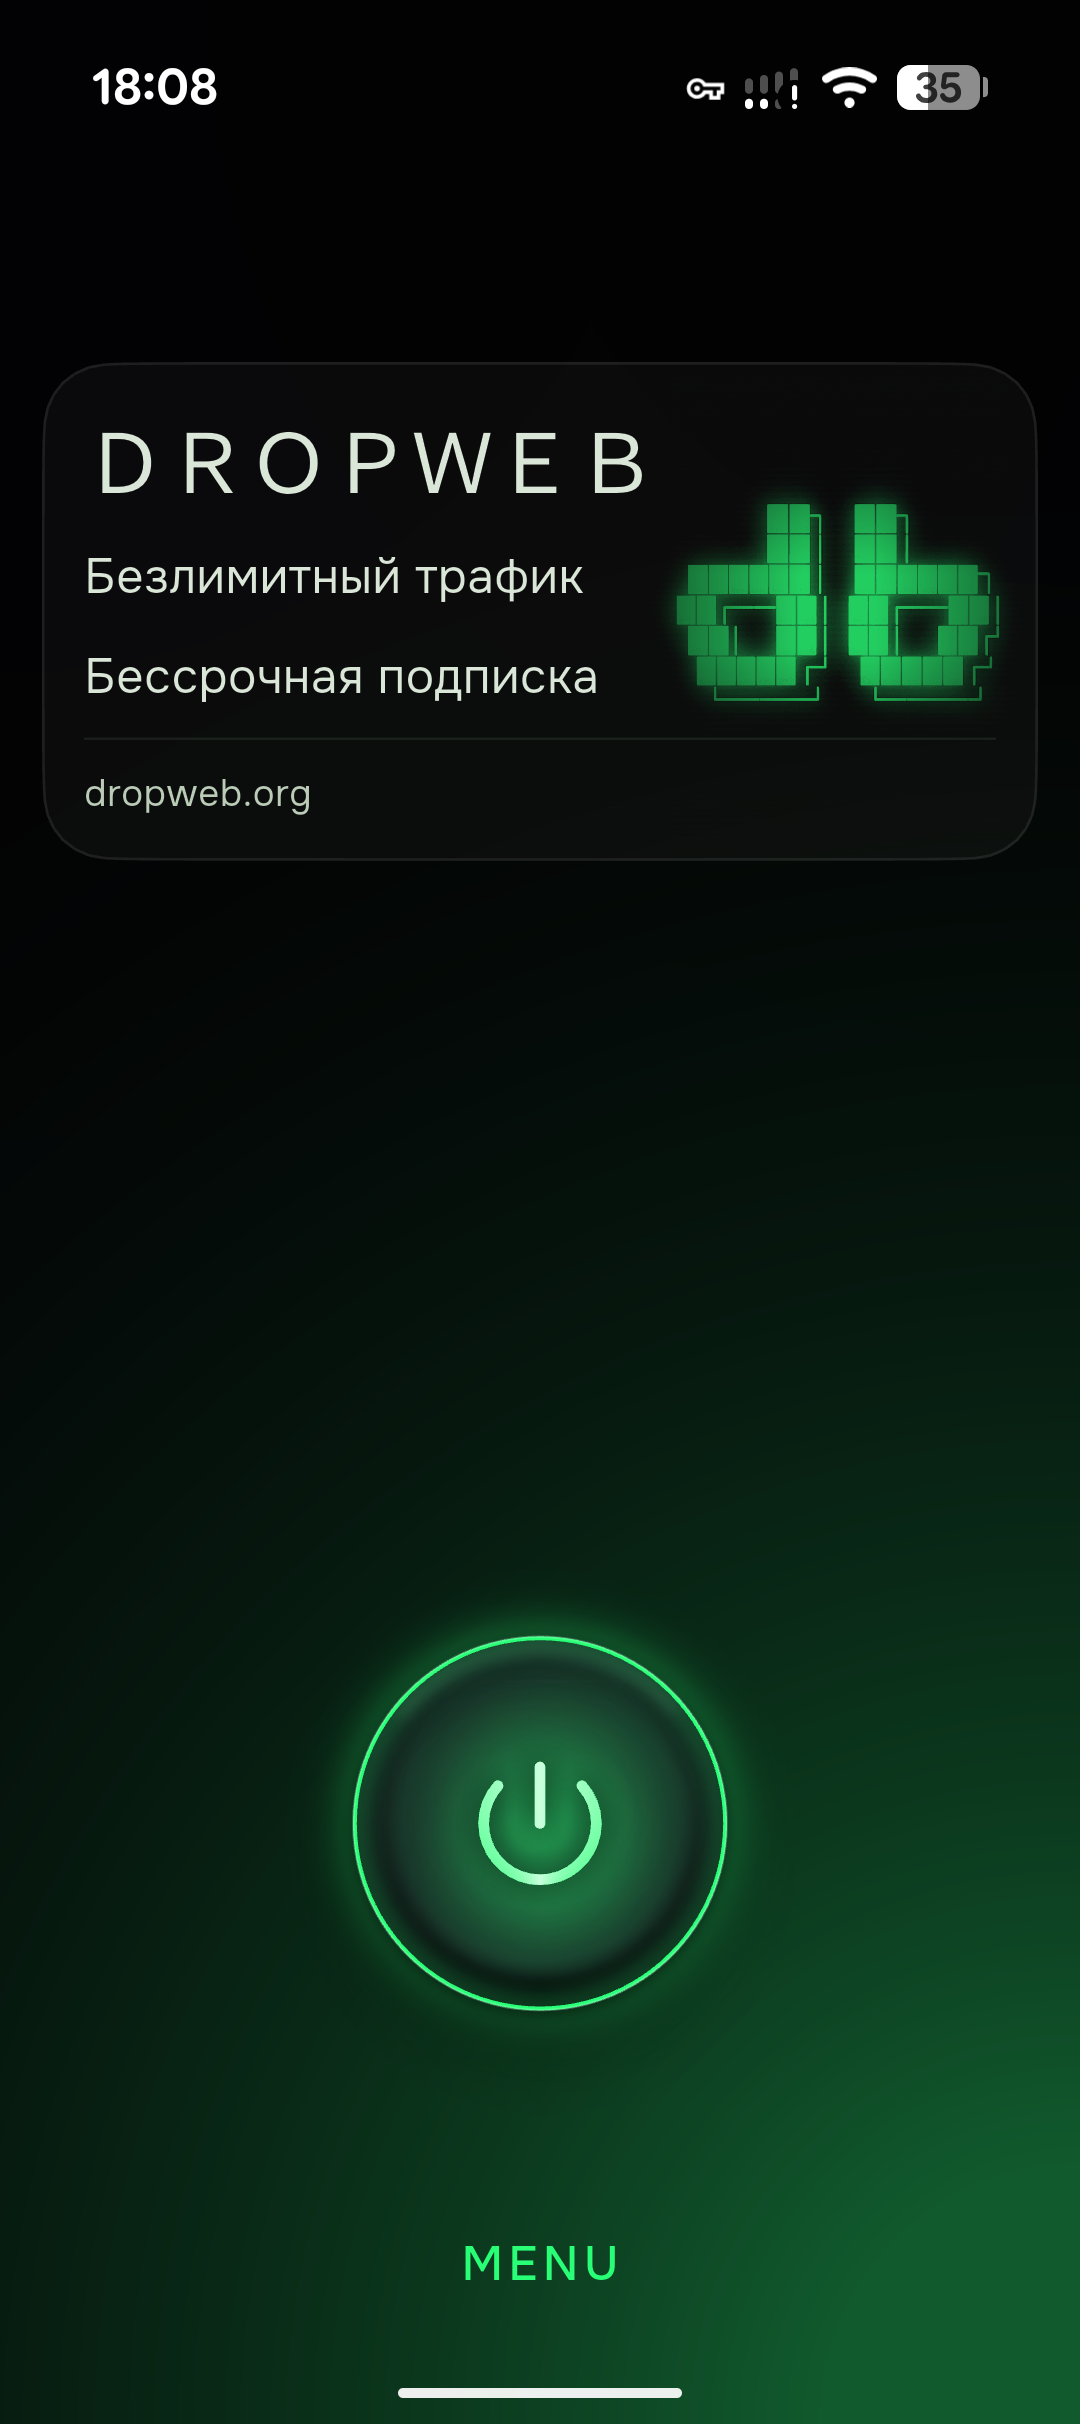
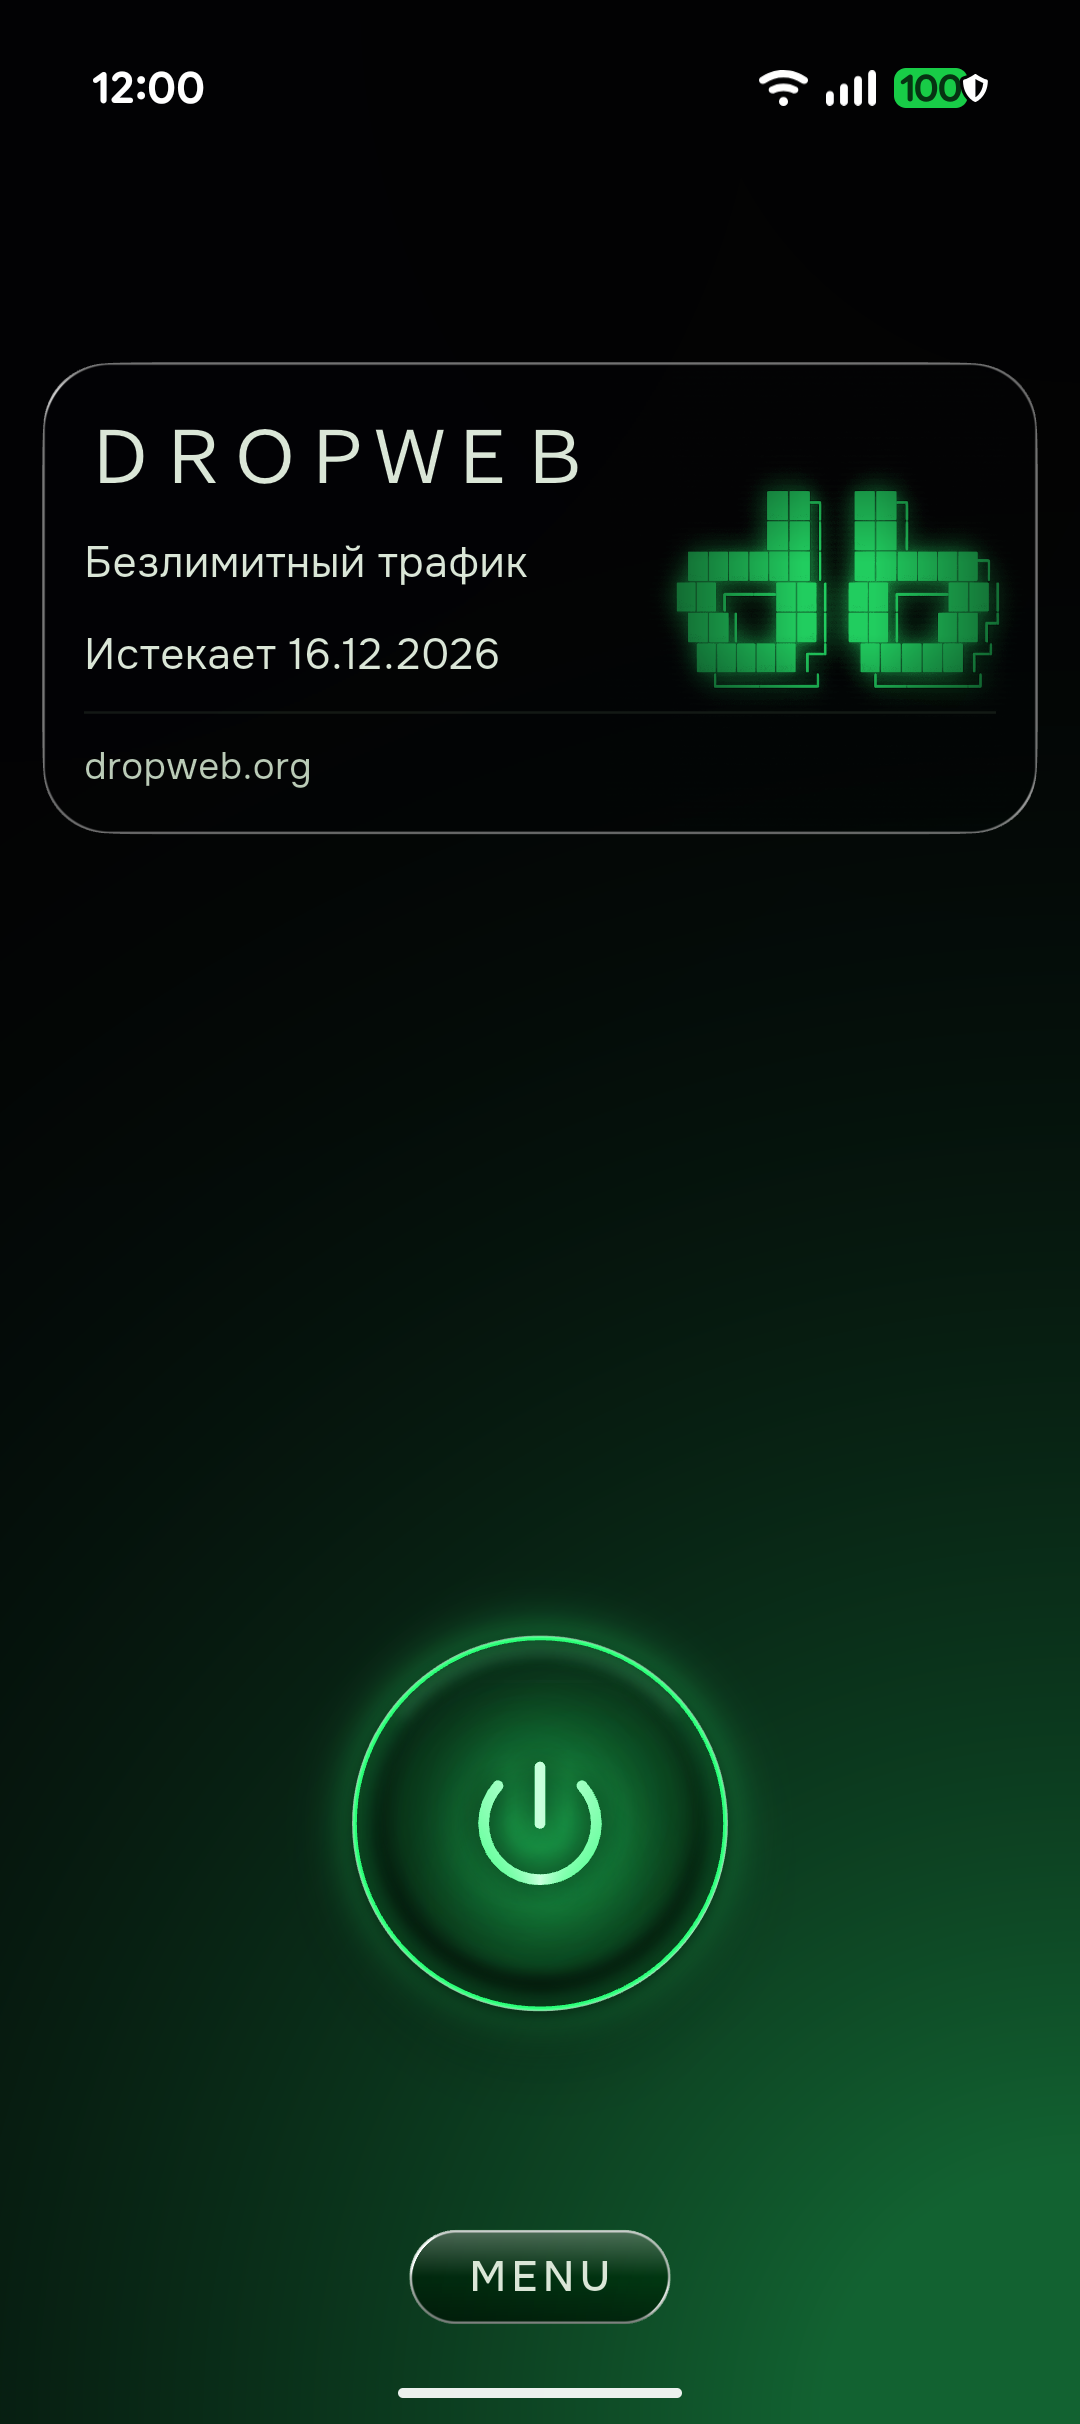
docs: README for 0.9.0 — one-screen subscription, liquid glass, new screenshots

diff --git a/README_EN.md b/README_EN.md
@@ -43,8 +43,8 @@ The dropweb team follows open-source principles, privacy by default, and predict
 <table>
   <tr>
     <td><img src="docs/screenshots/connected.png" alt="dropweb dashboard with an active connection" width="240" /></td>
-    <td><img src="docs/screenshots/modes.png" alt="Work modes and country selection" width="240" /></td>
-    <td><img src="docs/screenshots/menu.png" alt="Account menu on the dashboard" width="240" /></td>
+    <td><img src="docs/screenshots/subscription.png" alt="Subscription page: current server, full-tunnel switch, servers and groups" width="240" /></td>
+    <td><img src="docs/screenshots/menu.png" alt="Glass menu on the dashboard" width="240" /></td>
   </tr>
 </table>
 
@@ -56,9 +56,9 @@ The dropweb team follows open-source principles, privacy by default, and predict
 
 Most clients keep an open local proxy port that any app on the same device can reach — a potential channel for leaking your IP. On mobile, dropweb closes it by default: a random port on every launch, mandatory proxy authentication, and routing through the TUN interface only, with no separate listeners. The local proxy is not reachable by other apps on the device.
 
-### <img src="docs/icons/ai.svg" width="20" alt="" /> Intelligent route selection
+### <img src="docs/icons/features.svg" width="20" alt="" /> One-tap country
 
-The **Smart** mode relies on the core's ML model (LightGBM): it predicts the best node from real connection metrics instead of constant probe pings. This reduces background polling; node selection requires no manual tuning.
+The **Subscription** page fits on one screen: the subscription card, the current server with its ping, and an **All traffic through VPN** switch. Pick a country and the route goes through it; pick **Auto** and the app keeps the fastest server on its own, without hopping between servers over small speed differences. No separate modes, tabs or YAML editing needed.
 
 ### <img src="docs/icons/fingerprint.svg" width="20" alt="" /> Modern TLS profiles
 
@@ -81,8 +81,7 @@ The indicator becomes active only when the tunnel is established: the core confi
 | On-device privacy (local proxy isolation) | <img src="docs/icons/yes.svg" width="15" alt="yes" /> by default | <img src="docs/icons/partial.svg" width="15" alt="partial" /> rare / optional | <img src="docs/icons/partial.svg" width="15" alt="partial" /> rare |
 | TLS connection resilience (ClientHello fragmentation) | <img src="docs/icons/yes.svg" width="15" alt="yes" /> | <img src="docs/icons/no.svg" width="15" alt="no" /> | <img src="docs/icons/partial.svg" width="15" alt="partial" /> in the core, usually manual JSON only |
 | Modern TLS profiles (Firefox 148 / Safari 26, post-quantum) | <img src="docs/icons/yes.svg" width="15" alt="yes" /> | <img src="docs/icons/no.svg" width="15" alt="no" /> uTLS presets only | <img src="docs/icons/partial.svg" width="15" alt="partial" /> often incompatible |
-| Intelligent route selection (ML, LightGBM) | <img src="docs/icons/yes.svg" width="15" alt="yes" /> Smart mode | <img src="docs/icons/partial.svg" width="15" alt="partial" /> YAML only | <img src="docs/icons/no.svg" width="15" alt="no" /> |
-| One-tap modes (Standard / Smart / Country) | <img src="docs/icons/yes.svg" width="15" alt="yes" /> | <img src="docs/icons/no.svg" width="15" alt="no" /> | <img src="docs/icons/no.svg" width="15" alt="no" /> |
+| One-tap country selection (the mode follows) | <img src="docs/icons/yes.svg" width="15" alt="yes" /> | <img src="docs/icons/no.svg" width="15" alt="no" /> | <img src="docs/icons/no.svg" width="15" alt="no" /> |
 | Accurate connection state (UI waits for the real tunnel) | <img src="docs/icons/yes.svg" width="15" alt="yes" /> | <img src="docs/icons/no.svg" width="15" alt="no" /> | <img src="docs/icons/no.svg" width="15" alt="no" /> |
 | Android + Windows + macOS + Linux from one codebase | <img src="docs/icons/yes.svg" width="15" alt="yes" /> | partial | rare |
 
@@ -94,8 +93,9 @@ The indicator becomes active only when the tunnel is established: the core confi
 
 **Connectivity**
 - Subscription import via URL and QR code, background auto-update
-- One-tap work modes: **Standard**, **Smart** (ML), **Country** (route all traffic through a chosen country)
-- Cascade routes and a fallback pool of nodes
+- One-tap country selection: **Auto** keeps the fastest server, a chosen country carries the whole route
+- An **All traffic through VPN** switch when the subscription supports it
+- Cascade routes; under mobile internet restrictions, the whitelist from the subscription
 - Core protocols: VLESS (Reality / Vision / XHTTP), VMess, Trojan, Hysteria2, TUIC, ShadowTLS, AnyTLS, WireGuard
 - sing-box config import
 
@@ -104,10 +104,13 @@ The indicator becomes active only when the tunnel is established: the core confi
 - Modern TLS profiles with post-quantum key exchange
 - Optional TLS fragmentation for connection resilience
 - Rule-based routing, geosite/geoip, per-app split tunneling
-- mihomo (Clash.Meta) core with up-to-date security fixes (DoS/OOB) from mihomo v1.19.27
+- mihomo (Clash.Meta) core v1.19.31 with up-to-date security fixes
 
 **Interface**
-- Dark **Lumina** theme; rendering performance is maintained on mid-range hardware
+- Dark **Lumina** theme with liquid glass: a glass connect button, MENU and swipe-to-dismiss notifications; pages open with a liquid zoom
+- Rendering performance is maintained on mid-range hardware
+- One-screen Subscription page: switching, updating, support and deleting subscriptions live in one menu
+- Russian, English, Japanese and Chinese
 - Native system tray on Windows/Linux and status bar on macOS
 - Independent update delivery
 
@@ -121,7 +124,7 @@ dropweb uses less battery and memory than comparable clients built on the same c
 - Proxy-group polling stops when the app is backgrounded, eliminating the 20-second wakeup cycle
 - UI rendering is paused in the background
 - The network is refreshed only when the screen turns on — fewer radio and CPU wakeups
-- Smart mode doesn't fire constant probe pings across servers
+- Heavy smart groups from a subscription are switched to plain fastest-server selection — no constant probing and no private database
 - The battery-optimization exemption is requested contextually — only after the first successful connection
 
 **Memory & stability**
@@ -129,6 +132,7 @@ dropweb uses less battery and memory than comparable clients built on the same c
 - Core panic protection: a failure in one goroutine doesn't take down the VPN process
 - Config caching — instant switching with no core re-initialization
 - Atomic profile writes and lazy geodata loading
+- A third smaller core: Tailscale, ZeroTier and EasyTier are removed — mesh protocols that VPN provider subscriptions never use
 
 **Built for modern Android**
 - 16 KB memory page alignment — compatible with new devices and Google Play requirements
